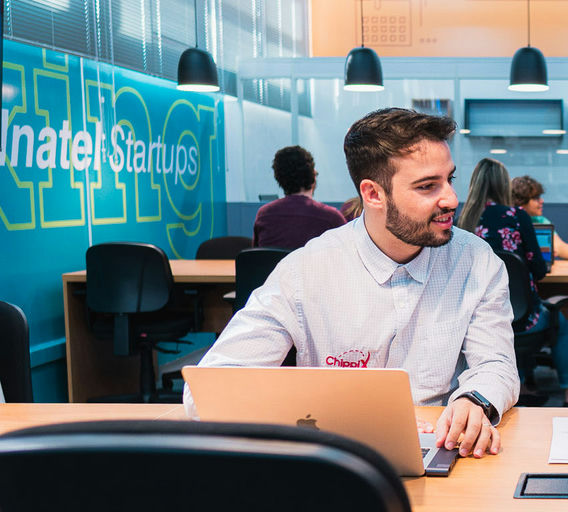
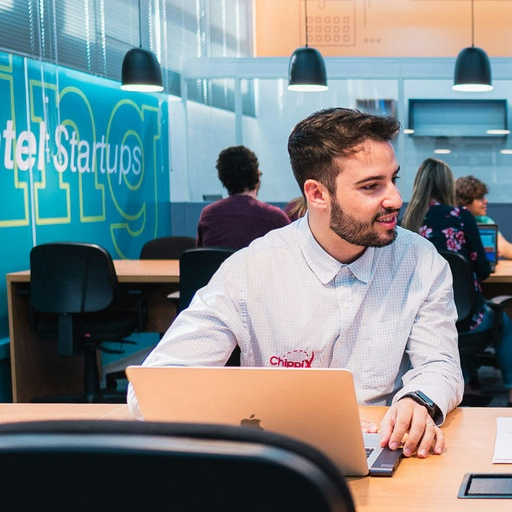
Ajusta enquadramento do Rafael Cassio mais para a esquerda e centralizado

diff --git a/index.html b/index.html
@@ -186,7 +186,7 @@
                 <!-- CARD: Rafael Cássio de Souza Bernardes -->
                 <div class="mentor-card" data-index="9">
                     <div class="mentor-avatar-container">
-                        <img src="elementos/mentores/rafael-cassio-de-souza-bernardes.jpg?v=4" alt="Foto de Rafael Cássio de Souza Bernardes" class="mentor-avatar-img" loading="lazy">
+                        <img src="elementos/mentores/rafael-cassio-de-souza-bernardes.jpg?v=5" alt="Foto de Rafael Cássio de Souza Bernardes" class="mentor-avatar-img" loading="lazy">
                     </div>
                     <div class="mentor-info">
                         <h4 class="mentor-name">Rafael Cássio de Souza Bernardes</h4>
